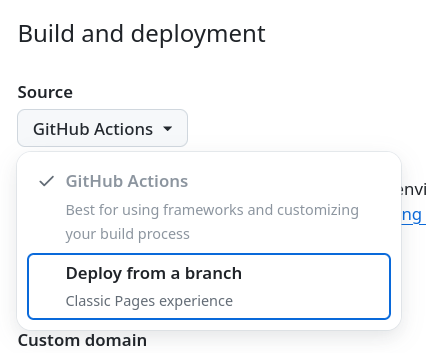
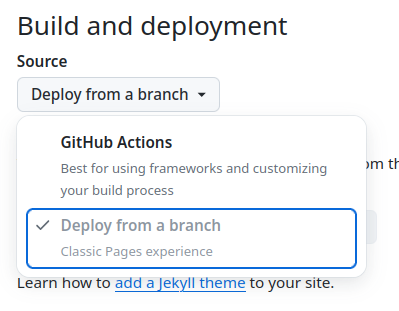
docs: Add updated notes to the generated publishing docs

diff --git a/README.md b/README.md
@@ -223,7 +223,7 @@ out/
 
 While we can of course manually copy the contents of the `out` directory and distribute the native system packages to our users this way, it is much easier to use a repository and CI/CD action to build, distribute and update them automatically. We'll use GitHub Actions to build the native system packages and GitHub Pages to distribute them in this example (we've specified the `github.com/myusername/myapp` repository in [1. Creating a New App](#1-creating-a-new-app) earlier), but you are of course free to use any alternative forge such as [Gitea/Forgejo](https://forgejo.org/) or [GitLab](https://about.gitlab.com/) or even your own web server if you prefer.
 
-For this example, let's start by creating our repository by heading over to [github.com/new](https://github.com/new). Once you have created the repository, enable GitHub pages by heading over to `Settings → Pages` in the repository you've just created and setting the source to "GitHub Actions" like so:
+Let's start with creating our repository by visiting [github.com/new](https://github.com/new). After creating the repository, navigate to `Settings → Pages` to enable GitHub Pages. hydrapp defaults to using the branch-based GitHub Pages workflow, which allows you to publish multiple versions of your app simultaneously (see [How can I provide an alpha, beta, insider etc. channel/edition/version of my app?](#how-can-i-provide-an-alpha-beta-insider-etc-channeleditionversion-of-my-app) for more information). To enable this, set the source to "Deploy from a branch" like so:
 
 <p align="center">
   <img src="./docs/screenshot-enable-github-pages.png" width="300px" alt="Screenshot of the GitHub pages source setting" title="Screenshot of the GitHub pages source setting">
@@ -269,7 +269,13 @@ After pushing the app to the repository, the GitHub action should automatically 
   <img src="./docs/screenshot-show-actions-pipeline.png" width="650px" alt="Screenshot of the GitHub actions pipeline" title="Screenshot of the GitHub actions pipeline">
 </p>
 
-After the action has run, the generated packages and installation instructions will be published to GitHub pages. You can find the link to them in the generated `README.md` or by heading to the URL reported by the `publish-linux` action; they should look something like this:
+Once the action has run, the generated packages and installation instructions are ready for publishing to GitHub Pages. This process usually happens automatically with the action, but the first deployment requires a manual step. To do this, navigate to `Settings → Pages` and select the `gh-pages` branch, as shown below:
+
+<p align="center">
+  <img src="./docs/screenshot-set-github-pages-branch.png" width="300px" alt="Screenshot of the GitHub Pages branch setting" title="Screenshot of the GitHub Pages branch setting">
+</p>
+
+After saving your changes, GitHub will begin deploying to GitHub Pages. You can track the deployment's progress by visiting `Actions → pages-build-deployment`. The link to the installation instructions can be found in the generated `README.md` or at the URL provided by the earlier `publish-linux` action. It should look something like this:
 
 ![Screenshot of the generated installation instructions](./docs/screenshot-generated-installation-instructions.png)
 
